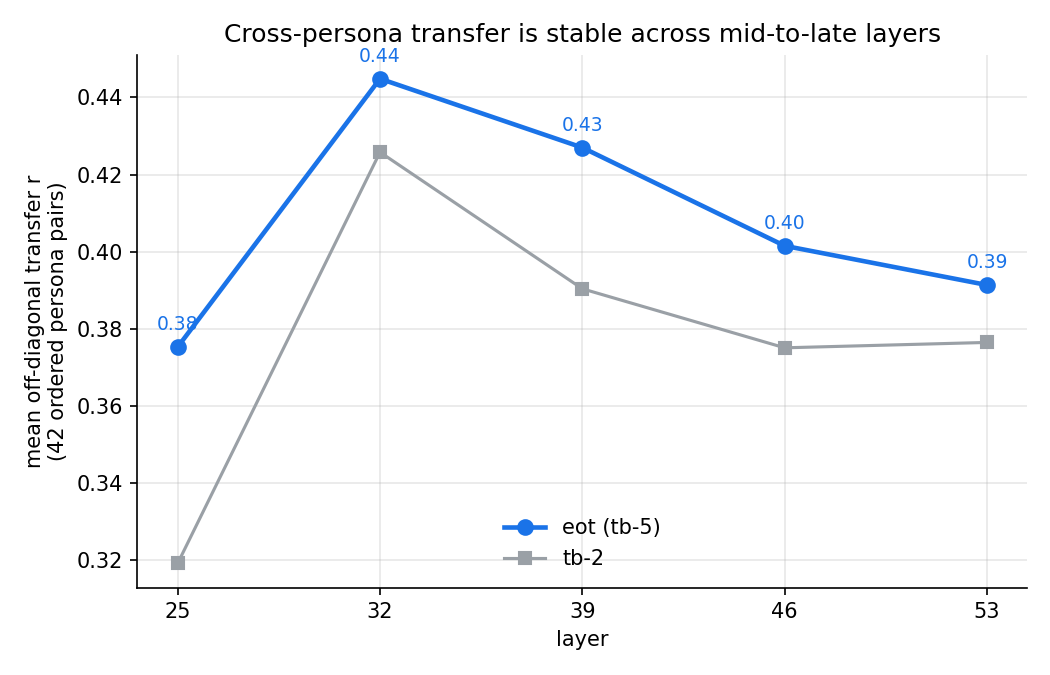
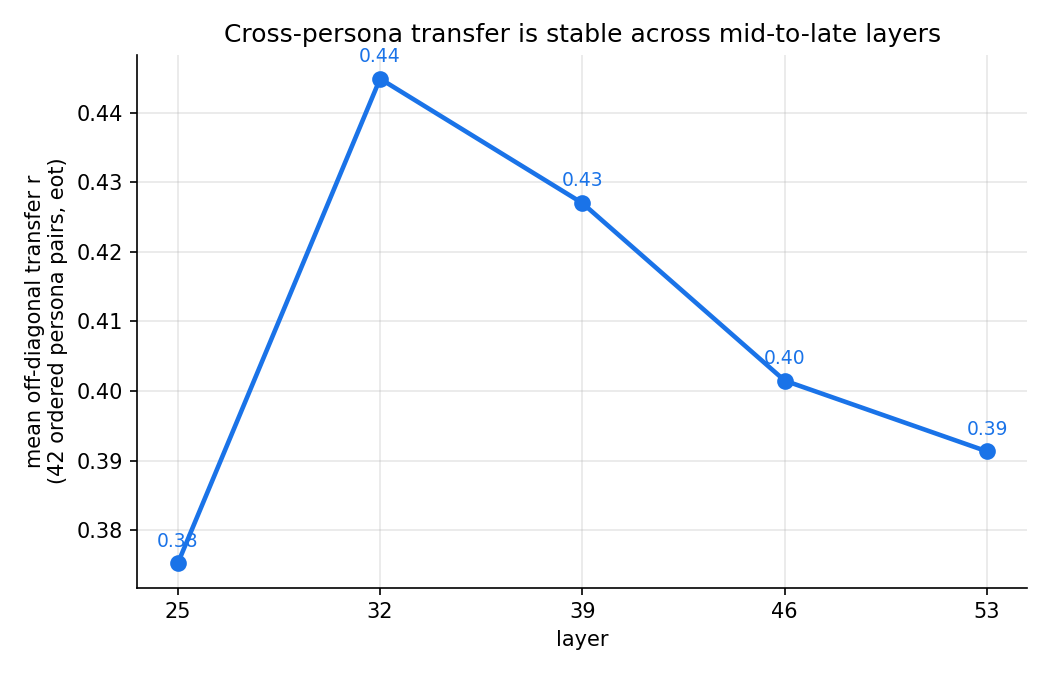
fig_transfer_per_layer: eot only; drop tb-2 line + reference in paper

diff --git a/main.tex b/main.tex
@@ -634,12 +634,12 @@ This subsection extends \S\ref{sec:shared-probe} with supporting figures for the
   \label{fig:persona-layer}
 \end{figure}
 
-\paragraph{Aggregate transfer is stable across mid-to-late layers.} Averaging across all 42 ordered persona pairs, the mean off-diagonal transfer $r$ is $\approx 0.44$ at every layer from 25 to 53 for the eot selector, and $\approx 0.03$--$0.05$ lower across the same range for \texttt{tb-2} (Fig.~\ref{fig:persona-transfer-per-layer}). The layer dependence of cross-persona transfer is weak; results do not hinge on our choice of L32.
+\paragraph{Aggregate transfer is stable across mid-to-late layers.} Averaging across all 42 ordered persona pairs at the eot selector, the mean off-diagonal transfer $r$ hovers near $0.44$ at every layer from 25 to 53 (Fig.~\ref{fig:persona-transfer-per-layer}). The layer dependence of cross-persona transfer is weak; results do not hinge on our choice of L32.
 
 \begin{figure}[H]
   \centering
   \includegraphics[width=0.7\linewidth]{plot_042326_transfer_per_layer.png}
-  \caption{\textbf{Mean off-diagonal transfer $r$ across layers.} Average over all 42 ordered (train, eval) persona pairs. The cross-persona transfer signal is approximately layer-invariant in the L25--L53 range, with eot (blue) $\approx 0.03$--$0.05$ above tb-2 (grey) at every layer.}
+  \caption{\textbf{Mean off-diagonal transfer $r$ across layers (eot).} Average over all 42 ordered (train, eval) persona pairs. The cross-persona transfer signal is approximately layer-invariant in the L25--L53 range.}
   \label{fig:persona-transfer-per-layer}
 \end{figure}
 